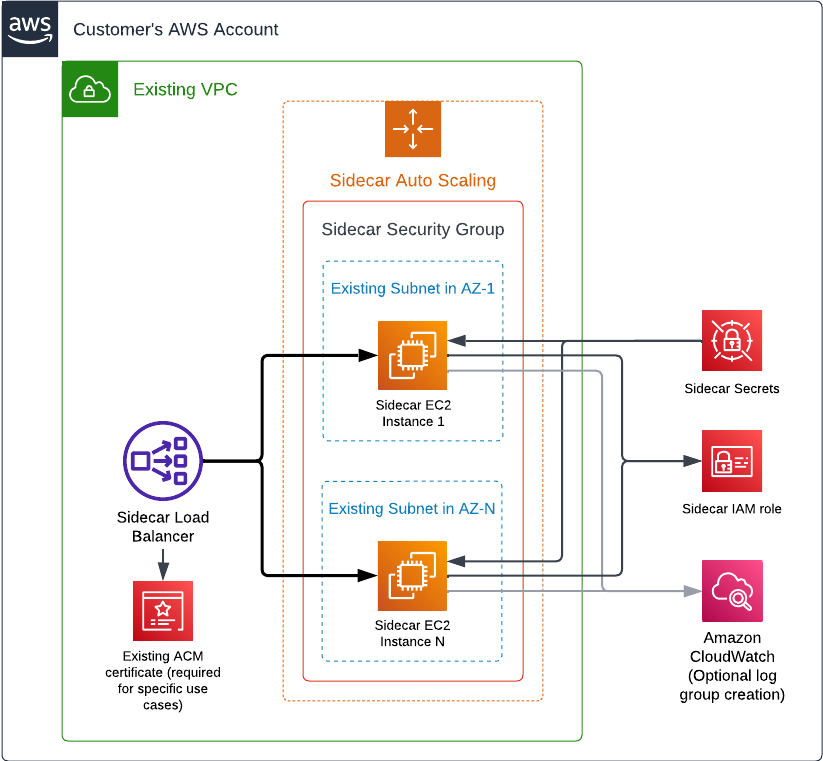
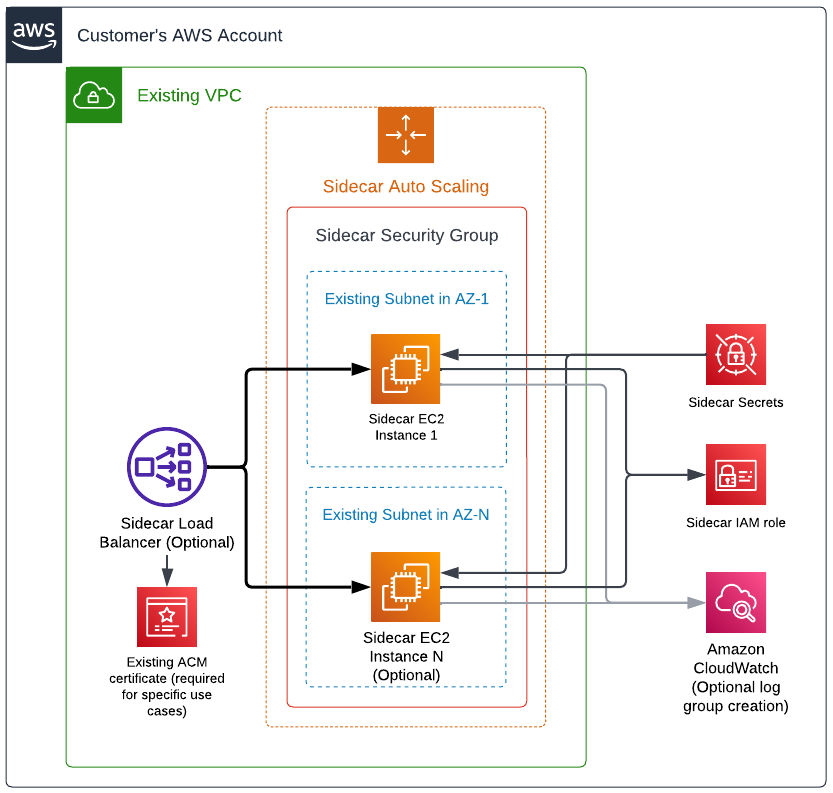
Update diagram and docs for optional LB (#9)

Changed region(s): [[0.0, 0.0, 1.0, 1.0], [0.8202, 0.3929, 0.9417, 0.5138]]

diff --git a/README.md b/README.md
@@ -73,10 +73,12 @@ module "cyral_sidecar" {
   # production/real data unless you understand all the
   # implications and risks involved.
 
-  # Associate a public IP address to the EC2 instances
+  # If you provided private subnets, set this to `false`
   associate_public_ip_address = true
-  # Create an internet-facing load balancer
-  load_balancer_scheme = "internet-facing"
+
+  # Do not deploy a load balancer, meaning it will also use
+  # a single EC2 instance for this sidecar
+  deploy_load_balancer = false
 
   # Unrestricted inbound to SSH into EC2 instances
   ssh_inbound_cidr        = ["0.0.0.0/0"]
@@ -89,13 +91,10 @@ module "cyral_sidecar" {
 ```
 
 The quick start example above will create the simplest configuration possible on your AWS account
-and deploy a single sidecar instance behind the load balancer. As this is just an example
-to help you understand basic concepts, it deploys a public sidecar instance with an
-internet-facing load balancer.
+and deploy a single sidecar instance without a load balancer.
 
-Deploying a test sidecar in a public configuration is the easiest way to have all the components
-in place and understand the basic concepts of our product as a public sidecar will easily
-communicate with the SaaS control plane.
+Deploying a test sidecar is the easiest way to have a sidecar up and running to
+understand the basic concepts of our product.
 
 In case the databases you are protecting with the Cyral sidecar also live on AWS, make sure to
 add the sidecar security group (see output parameter `aws_security_group_id`) to the list of
